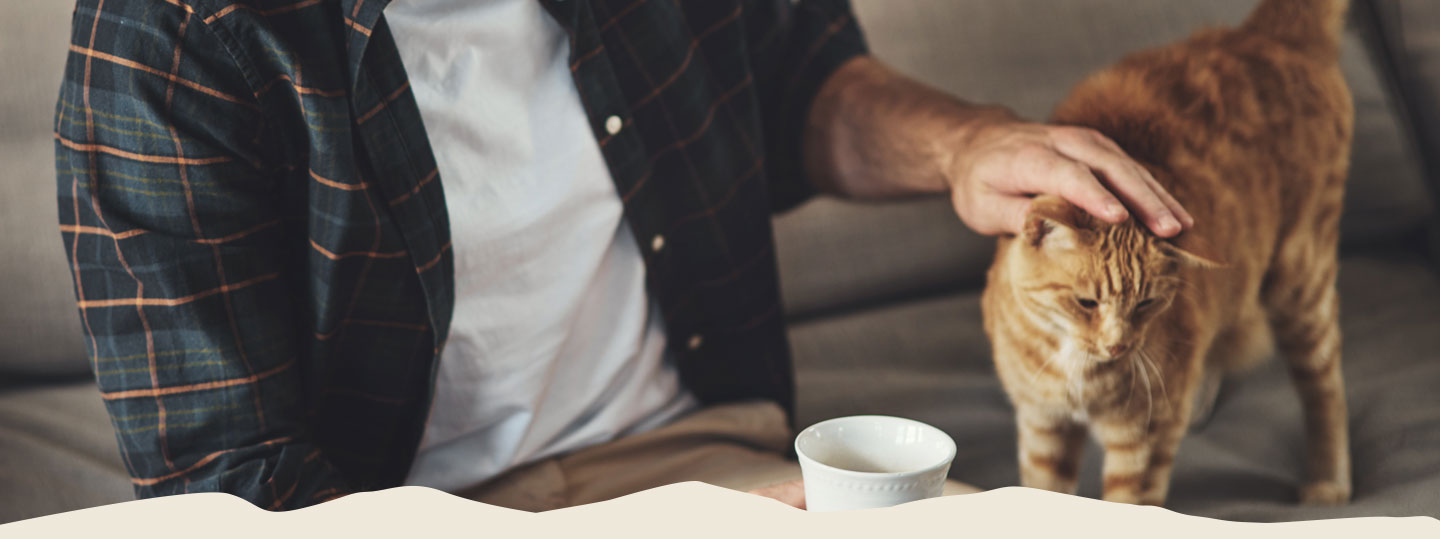
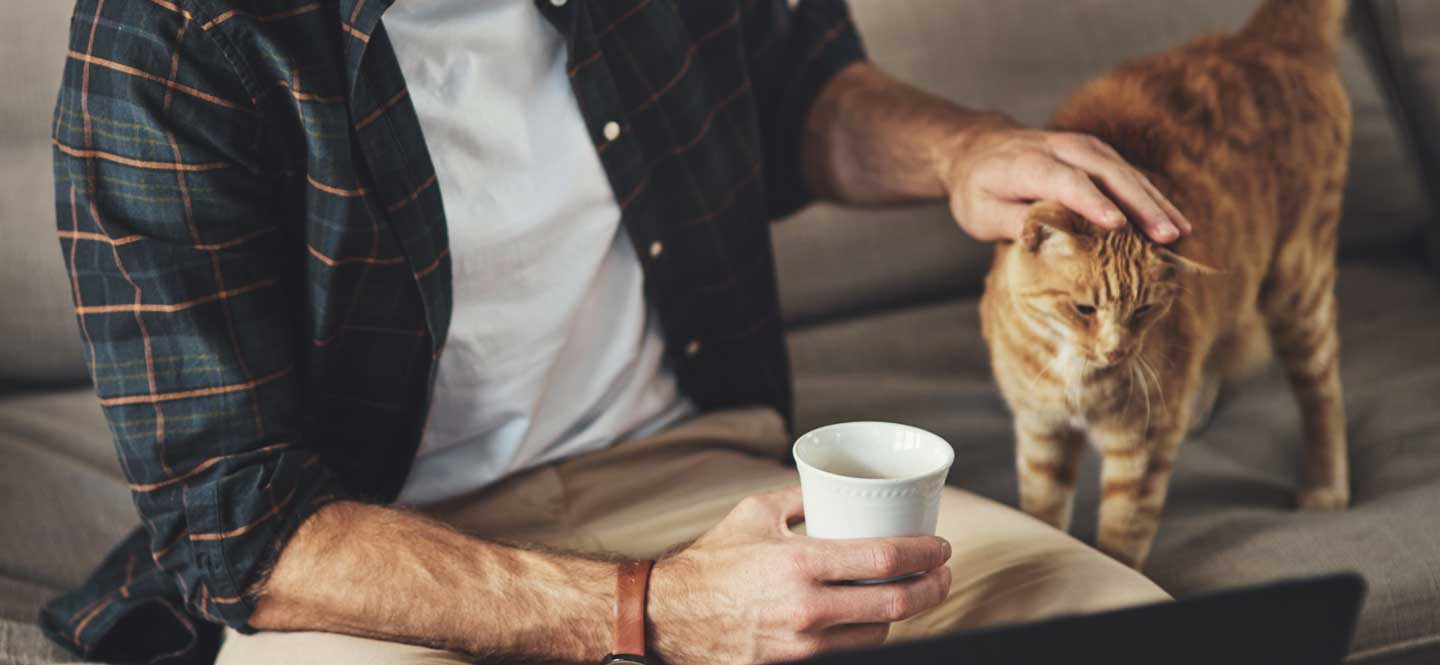
why page

diff --git a/src/views/OurstoryPage.vue b/src/views/OurstoryPage.vue
@@ -5,7 +5,7 @@
     <!-- Hero -->
     <section class="hero">
       <div class="hero-bg">
-        <img src="../assets/images/story_bg_01.jpg" alt="">
+        <img src="../assets/imgs/why/why_01.jpg" alt="">
       </div>
       <div class="title1">
         OUR<br>
@@ -16,6 +16,9 @@
       </div>
       <div @click="goWhy" class="btn-leran-more">
         LEARN MORE
+      </div>
+      <div class="bg-fixed">
+        <img src="../assets/imgs/why/wave.png" alt="">
       </div>
     </section>
 
@@ -43,7 +46,7 @@
       <img style="width: 100%;" src="../assets/images/story_bg_10.jpg" alt="">
     </div>
     <div class="our-mission" ref="missionRef">
-      <div class="img-block" >
+      <div class="img-block">
         <div class="img-scroll" ref="imgBlockRef">
           <img src="../assets/images/mission_bg_01.jpg" alt="">
           <img src="../assets/images/mission_bg_02.jpg" alt="">
@@ -224,21 +227,32 @@ onBeforeUnmount(() => {
     position: relative;
     font-size: 0;
     color: #fff;
-
+    height: 520px;
     .hero-bg {
-      height: 310px;
+      height: 520px;
       overflow: hidden;
 
       img {
         width: 100%;
-        transform: translateY(-40px);
+        transform: translateY(0);
         animation: moveUp 10s ease-out 0.5s forwards;
+      }
+    }
+    .bg-fixed {
+      position: absolute;
+      bottom: 0;
+      left: 0;
+      width: 100%;
+      height: 60px;
+      img {
+        width: 100%;
+        min-height: 60px;
       }
     }
 
     @keyframes moveUp {
       to {
-        transform: translateY(-140px);
+        transform: translateY(-40px);
       }
     }
 

diff --git a/src/views/ProductsPage.vue b/src/views/ProductsPage.vue
@@ -83,6 +83,8 @@
         <div class="pd-g-4-text2">MEETS SCIENCE</div>
         <img class="pd-g-4-img" src="../assets/imgs/products/products_02.png" alt="">
       </div>
+      <div class="pd-g-4-bg">
+      </div>
     </div>
     <!-- Footer -->
     <FooterPage />
@@ -338,8 +340,9 @@ onBeforeUnmount(() => {
   }
 
   .pd-g-4 {
+    position: relative;
     background-color: #938c34;
-
+    padding-bottom: 50px;
     .pd-g-4-content {
       position: relative;
       width: 1200px;
@@ -381,6 +384,15 @@ onBeforeUnmount(() => {
         margin-left: -350px;
         top: 25px;
       }
+    }
+    .pd-g-4-bg {
+      position: absolute;
+      width: 100%;
+      height: 690px;
+      bottom: 0;
+      left: 0;
+      background: url("../assets/imgs/products/bg.jpg") no-repeat center center;
+      background-size: cover;
     }
   }
 }

diff --git a/src/views/SupportPage.vue b/src/views/SupportPage.vue
@@ -154,15 +154,16 @@ import emailjs from "emailjs-com"
 
 const openWindow = (index) => {
   if (index == 1) {
-    window.open('https://www.facebook.com/profile.php?id=61577967892785', "_blank")
+    window.open('https://www.facebook.com/share/1GTfXNJgyP/?mibextid=wwXIfr', "_blank")
   }
   else if (index == 2) {
-    window.open('https://www.youtube.com/@GloriPetgo', "_blank")
+    window.open('https://youtube.com/@schrain-m7k?si=QJXMeFB-wNk63Hbp', "_blank")
   }
   else {
-    window.open('https://www.instagram.com/', "_blank")
+    window.open('https://www.instagram.com/schrainpetfoods?igsh=MnZzN3RxMjVyeTUw&utm_source=qr', "_blank")
   }
 }
+
 const sendMail = () => {
   emailjs.send(
     "service_85ubcj6",     // 你的服务ID

diff --git a/src/components/HeaderPage.vue b/src/components/HeaderPage.vue
@@ -91,13 +91,13 @@ const goSupport = () => {
 }
 const openWindow = (index) => {
   if (index == 1) {
-    window.open('https://www.facebook.com/profile.php?id=61577967892785', "_blank")
+    window.open('https://www.facebook.com/share/1GTfXNJgyP/?mibextid=wwXIfr', "_blank")
   }
   else if (index == 2) {
-    window.open('https://www.youtube.com/@GloriPetgo', "_blank")
+    window.open('https://youtube.com/@schrain-m7k?si=QJXMeFB-wNk63Hbp', "_blank")
   }
   else {
-    window.open('https://www.instagram.com/glori.petgo?igsh=ajc5bmZuNWJ2MWY4&utm_source=qr', "_blank")
+    window.open('https://www.instagram.com/schrainpetfoods?igsh=MnZzN3RxMjVyeTUw&utm_source=qr', "_blank")
   }
 }
 // 鼠标进入/离开时切换状态

diff --git a/src/components/FooterPage.vue b/src/components/FooterPage.vue
@@ -48,13 +48,13 @@ const goAbout = () => {
 }
 const openWindow = (index) => {
   if (index == 1) {
-    window.open('https://www.facebook.com/profile.php?id=61577967892785', "_blank")
+    window.open('https://www.facebook.com/share/1GTfXNJgyP/?mibextid=wwXIfr', "_blank")
   }
   else if (index == 2) {
-    window.open('https://www.youtube.com/@GloriPetgo', "_blank")
+    window.open('https://youtube.com/@schrain-m7k?si=QJXMeFB-wNk63Hbp', "_blank")
   }
   else {
-    window.open('https://www.instagram.com/glori.petgo?igsh=ajc5bmZuNWJ2MWY4&utm_source=qr', "_blank")
+    window.open('https://www.instagram.com/schrainpetfoods?igsh=MnZzN3RxMjVyeTUw&utm_source=qr', "_blank")
   }
 }
 </script>

diff --git a/src/components/FooterMPage.vue b/src/components/FooterMPage.vue
@@ -57,9 +57,9 @@ const goAbout = () => {
 const openWindow = (index) => {
   const urls = [
     "",
-    "https://www.facebook.com/profile.php?id=61577967892785",
-    "https://www.youtube.com/@GloriPetgo",
-    "https://www.instagram.com/",
+    "https://www.facebook.com/share/1GTfXNJgyP/?mibextid=wwXIfr",
+    "https://youtube.com/@schrain-m7k?si=QJXMeFB-wNk63Hbp",
+    "https://www.instagram.com/schrainpetfoods?igsh=MnZzN3RxMjVyeTUw&utm_source=qr",
   ];
   window.open(urls[index], "_blank");
 };
